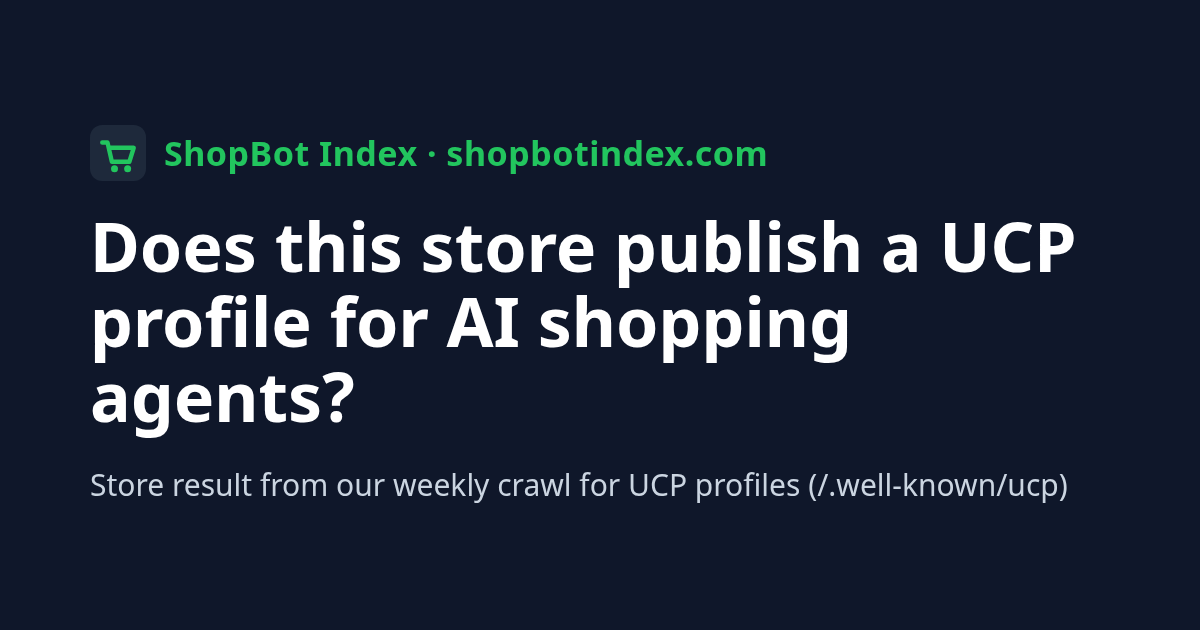
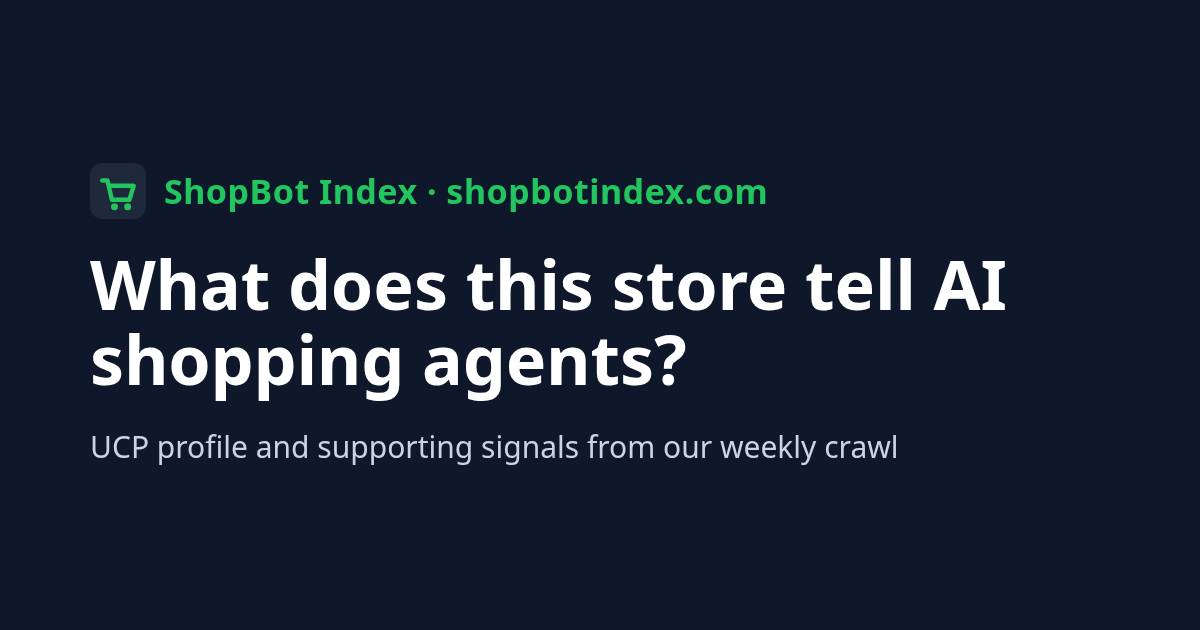
Messaging stage 2 (ship after the 26 Oct crawl): headline 'What online stores tell AI shopping agents', home title/meta/intro, footer tagline, segment card wording, store titles and signal row names, check/badge/about copy, OG images re-rendered. dist rebuilt at merge

Changed region(s): [[0.0617, 0.2111, 0.8942, 0.8143]]

diff --git a/assets/og.html b/assets/og.html
@@ -7,6 +7,6 @@ p{font-size:30px;color:#cbd5e1;margin:0}
 .bar i{display:block}
 </style></head><body>
 <div class="b"><svg width="56" height="56" viewBox="0 0 64 64"><rect width="64" height="64" rx="14" fill="#1e293b"/><path d="M14 20h6l5 22h20l5-16H23" fill="none" stroke="#22c55e" stroke-width="5" stroke-linecap="round" stroke-linejoin="round"/><circle cx="28" cy="50" r="4" fill="#22c55e"/><circle cx="43" cy="50" r="4" fill="#22c55e"/></svg>ShopBot Index · shopbotindex.com</div>
-<h1>Which online stores publish a UCP profile for AI shopping agents?</h1>
-<p>Weekly public crawl · Shopify stores · big retailers · other online stores</p>
+<h1>What online stores tell AI shopping agents</h1>
+<p>Weekly crawl · UCP profiles + agent tools, AI rules, product data · Shopify, big retailers, other stores</p>
 </body></html>

diff --git a/assets/og-store.html b/assets/og-store.html
@@ -7,6 +7,6 @@ p{font-size:30px;color:#cbd5e1;margin:0}
 .bar i{display:block}
 </style></head><body>
 <div class="b"><svg width="56" height="56" viewBox="0 0 64 64"><rect width="64" height="64" rx="14" fill="#1e293b"/><path d="M14 20h6l5 22h20l5-16H23" fill="none" stroke="#22c55e" stroke-width="5" stroke-linecap="round" stroke-linejoin="round"/><circle cx="28" cy="50" r="4" fill="#22c55e"/><circle cx="43" cy="50" r="4" fill="#22c55e"/></svg>ShopBot Index · shopbotindex.com</div>
-<h1>Does this store publish a UCP profile for AI shopping agents?</h1>
-<p>Store result from our weekly crawl for UCP profiles (/.well-known/ucp)</p>
+<h1>What does this store tell AI shopping agents?</h1>
+<p>UCP profile and supporting signals from our weekly crawl</p>
 </body></html>

diff --git a/scripts/build.py b/scripts/build.py
@@ -7,7 +7,7 @@ NAME='ShopBot Index'
 CONTACT='hello@shopbotindex.com'
 MAILTO=f'<a href="mailto:{CONTACT}">{CONTACT}</a>'
 FORM_ACTION='https://uufmlmwgvoqhhtqgrclu.supabase.co/functions/v1/sbi-subscribe'
-DEFDESC='Which online stores publish a Universal Commerce Protocol (UCP) profile, the official machine-readable profile AI shopping agents read? A weekly public crawl of Shopify stores, big retailers and other online stores.'
+DEFDESC='What online stores tell AI shopping agents: a weekly public crawl of Shopify stores, big retailers and other online stores for UCP profiles, the official machine-readable profile AI shopping agents read, plus agent tools, AI rules in robots.txt, AI guidance files and product data.'
 E=lambda s: html.escape(str(s if s is not None else ''))
 D=json.load(open(os.path.join(DATA,'latest.json'))); CH=json.load(open(os.path.join(DATA,'channels.json')))
 RET=D['retailers']; SITES=D['sites']; DAY=D['crawl_date']
@@ -48,7 +48,7 @@ def page(path,title,body,desc='',ogimg='og.png',ogtype='website',head=''):
 <meta name='impact-site-verification' value='b2e40b89-8d32-4fba-b983-f02842d65c9f'>
 <meta name='impact-site-verification' value='644adb49-a10b-4e51-b34b-6674b6917c9f'>
 <link rel="stylesheet" href="{pre}style.css"></head><body><header><div class="w"><a class="brand" href="{pre}index.html">{NAME}</a>{nav}</div></header>
-<main><div class="w">{body}</div></main><footer><div class="w">{NAME} · Crawl of {DAY} · <a href="{pre}methodology.html">How we measure</a> · <a href="{pre}privacy.html">Privacy</a> · <a href="{pre}about.html">About</a> · <a href="https://x.com/ShopBotIndex" rel="me noopener">Follow on X</a> · Contact: {MAILTO} · Independent; not affiliated with Google, Shopify, OpenAI, Microsoft or any retailer listed.</div></footer></body></html>'''
+<main><div class="w">{body}</div></main><footer><div class="w">{NAME}: the weekly index of what online stores tell AI shopping agents · Crawl of {DAY} · <a href="{pre}methodology.html">How we measure</a> · <a href="{pre}privacy.html">Privacy</a> · <a href="{pre}about.html">About</a> · <a href="https://x.com/ShopBotIndex" rel="me noopener">Follow on X</a> · Contact: {MAILTO} · Independent; not affiliated with Google, Shopify, OpenAI, Microsoft or any retailer listed.</div></footer></body></html>'''
     fp=os.path.join(DIST,path); os.makedirs(os.path.dirname(fp),exist_ok=True); open(fp,'w').write(full); PAGES.append(path)
 def bars(counter,total,namef=lambda x:x,link=None,label='Stores'):
     rows=''.join(f'<tr><td>{(f"<a href=\"{link(k)}\">{E(namef(k))}</a>") if link else E(namef(k))}</td><td>{v}</td><td>{pct(v,total)}</td><td class="hide-sm" style="width:35%"><div class="bar"><i style="width:{100*v/max(total,1):.1f}%"></i></div></td></tr>' for k,v in counter.most_common())
@@ -57,9 +57,9 @@ def segcards(pre=''):
     out=''
     for k in ('shopify','big','other'):
         s=segstats([r for r in RET if r['segment']==k])
-        out+=f'''<a class="seg" href="{pre}segments/{k}.html"><h3>{SEG[k]}</h3><b>{s["ucp"]}</b> <span>of {s["checked"]} we could check publish UCP ({s["rate"]})</span>
+        out+=f'''<a class="seg" href="{pre}segments/{k}.html"><h3>{SEG[k]}</h3><b>{s["ucp"]}</b> <span>of {s["checked"]} we could check publish a UCP profile ({s["rate"]})</span>
 <div class="sbar"><i class="y" style="width:{100*s["ucp"]/max(s["n"],1):.1f}%"></i><i class="n" style="width:{100*s["no"]/max(s["n"],1):.1f}%"></i><i class="c" style="width:{100*s["cc"]/max(s["n"],1):.1f}%"></i></div>
-<small>{s["n"]} tracked · {s["no"]} no profile found · <span class="cc">{s["cc"]} couldn't check</span></small></a>'''
+<small>{s["n"]} tracked · {s["no"]} no UCP profile found · <span class="cc">{s["cc"]} couldn't check</span></small></a>'''
     return f'<div class="segs">{out}</div><p class="legend"><i class="y"></i> UCP profile <i class="n"></i> no profile found <i class="c"></i> couldn\'t check (blocked or unreachable; not counted in the rate)</p>'
 HONEYPOT='<input type="text" name="website" tabindex="-1" autocomplete="off" aria-hidden="true" style="position:absolute;left:-9999px;width:1px;height:1px;opacity:0">'
 SIGNUP_JS="""<script>if(!window.sbiSub){window.sbiSub=function(f){const m=f.parentNode.querySelector('.nl-msg'),b=f.querySelector('button');b.disabled=true;m.textContent='Subscribing…';fetch(f.action,{method:'POST',headers:{'Content-Type':'application/json'},body:JSON.stringify(Object.fromEntries(new FormData(f)))}).then(r=>r.json().then(j=>[r.status,j])).then(([s,j])=>{if(j.ok){m.textContent="Thanks! You're on the list.";f.reset();}else{m.textContent=(j.error==='invalid_email'?'Please enter a valid email address.':(s===429?'Too many attempts. Please try again later.':'Something went wrong. Please try again.'));}}).catch(()=>{m.textContent='Network error. Please try again.'}).finally(()=>{b.disabled=false});return false;}}</script>"""
@@ -127,7 +127,7 @@ if(badge){h+=st=='ucp'?'<div style="margin-top:.8rem"><img src="'+root+'badge/'+
 out.innerHTML=h};
 if(window.sbiLook)go(window.sbiLook);else fetch(root+'stores.json').then(r=>r.json()).then(L=>{window.sbiLook=L;go(L)}).catch(()=>{out.textContent='Could not load the store list. Please try again.'});return false;}}</script>'''
 def checkbox(pre='',badge=False,title='Check your store'):
-    return f'''<div class="box ck"><b>{title}</b> Does your store publish a UCP profile, the official machine-readable profile AI shopping agents read? Look it up in our latest crawl ({DAY}).
+    return f'''<div class="box ck"><b>{title}</b> Does your store publish a UCP profile, and what else does it tell AI shopping agents? Look it up in our latest crawl ({DAY}).
 <form class="ckf" data-root="{pre}"{' data-badge' if badge else ''} onsubmit="return sbiCheck(this)" style="margin-top:.6rem;display:flex;flex-wrap:wrap;gap:.5rem"><input type="text" name="d" placeholder="yourstore.com" required maxlength="253" aria-label="Store domain" autocapitalize="off" spellcheck="false" style="padding:.5rem;border:1px solid #cdd5dd;border-radius:6px;min-width:220px;flex:1"> <button type="submit" style="padding:.5rem 1rem;border:0;border-radius:6px;background:#0f1f2e;color:#fff;font-weight:600">Check</button></form>
 <div class="ck-out" aria-live="polite" style="margin-top:.6rem"></div>{CHECK_JS}</div>'''
 def badge_svg(ok):
@@ -141,8 +141,8 @@ def snippet(r):
 # ---- home ----
 nsites=len(SITES); nsites_u=sum(1 for s in SITES if s.get('status')=='ucp')
 joined_txt=(f'<p><b>This week:</b> {len(CHG["joined"])} joined, {len(CHG["left"])} left since {CHG["previous"]}. <a href="changes.html">See who →</a></p>' if CHG else '<p class="muted">Weekly "who joined" starts with the second crawl.</p>')
-home=f'''<h1>Which online stores publish a UCP profile for AI shopping agents?</h1>
-<p class="lede">We check {len(RET)} retailers and stores ({nsites} websites) for a published <a href="https://ucp.dev/">Universal Commerce Protocol</a> (UCP) profile, the official machine-readable profile AI shopping agents read. No UCP profile found doesn't mean AI agents can't shop there. Every figure comes from our own crawl on {DAY}. <a href="methodology.html#meaning">What this does and doesn't mean</a>.</p>
+home=f'''<h1>What online stores tell AI shopping agents</h1>
+<p class="lede">Every week we check {len(RET)} retailers and stores ({nsites} websites) for a <a href="https://ucp.dev/">Universal Commerce Protocol</a> (UCP) profile, the official machine-readable profile AI shopping agents read, and for four supporting signals: agent tools, AI rules in robots.txt, AI guidance files and product data. No UCP profile doesn't mean AI agents can't shop there. Every figure comes from our own crawl on {DAY}. <a href="methodology.html#meaning">What this does and doesn't mean</a>.</p>
 {segcards()}{joined_txt}
 {checkbox()}
 <div class="stats"><div class="stat"><b>{len(U)}</b><span>retailers/stores with a UCP profile on at least one site</span></div>
@@ -157,7 +157,7 @@ home=f'''<h1>Which online stores publish a UCP profile for AI shopping agents?</
 <h2>Which AI assistants name which retailers</h2><p>From official announcements and help pages only. <a href="assistants.html">Details →</a></p>
 <div class="tw nomax"><table><tr><th>Assistant</th><th>Retailers named</th><th>Source</th></tr>{"".join(f'<tr><td><b>{E(c["assistant"])}</b></td><td>{", ".join(E(x) for x in c["retailers_named"])}</td><td><a href="{E(c["source_url"])}" rel="noopener">{E(c["source_title"].split(" (")[-1].rstrip(")"))}</a>, {E(c["date"])}</td></tr>' for c in CH["channels"])}</table></div>
 {signup()}{aff()}'''
-page('index.html',f'{NAME}: which online stores publish a UCP profile for AI shopping agents',home,DEFDESC)
+page('index.html',f'What online stores tell AI shopping agents: weekly UCP index · {NAME}',home,DEFDESC)
 # ---- stores table ----
 rows=[]
 for r in sorted(RET,key=lambda r:(r['status']!='ucp',r['name'].lower())):
@@ -238,16 +238,16 @@ def readiness(r):
     elif st=='no_ucp': ucpt=(('no','Not found'),'No UCP profile found at <code>/.well-known/ucp</code>.')
     else: ucpt=(('warn',"Couldn't check"),"Couldn't check: our request for the profile was refused or failed.")
     extra=(' Also publishes an Agentic Commerce Protocol (ACP) discovery document at <code>/.well-known/acp.json</code>.' if sg.get('acp') else '')+(' Also publishes an AI catalog at <code>/.well-known/ai-catalog.json</code>.' if sg.get('ai_catalog') else '')
-    rows.append(('Agent checkout profile (UCP)',ucpt[0],ucpt[1]+extra))
+    rows.append(('UCP profile',ucpt[0],ucpt[1]+extra))
     m=sg.get('mcp',{}); ms=m.get('state','not_checked'); tl=m.get('tools',[])
     if ms=='answered': mrow=(('yes','Answered'),f'The MCP endpoint named in its UCP profile answered our read-only tools list request with {len(tl)} tool{"s" if len(tl)!=1 else ""}: '+', '.join(f'<code>{E(t)}</code>' for t in tl)+'. We never call the tools.')
     elif ms=='no_tools': mrow=(('no','No tools list'),"Its UCP profile names an MCP endpoint, but it didn't return a tools list to our request.")
     elif st=='ucp' and ms=='none_declared': mrow=(('no','None declared'),'Its UCP profile declares no MCP endpoint.')
     elif st=='no_ucp': mrow=(('no','None found'),'No UCP profile, so no MCP endpoint to check. We only look for one in a UCP profile.')
     else: mrow=(('warn','Not checked'),'Not checked this week.')
-    rows.append(('Agent tools (MCP endpoint)',)+mrow)
+    rows.append(('Agent tools (MCP)',)+mrow)
     rb=sg.get('robots',{})
-    if not rb.get('present'): rows.append(('AI-agent rules in robots.txt',('warn','Not checked'),"We couldn't read a robots.txt for this site."))
+    if not rb.get('present'): rows.append(('AI rules (robots.txt)',('warn','Not checked'),"We couldn't read a robots.txt for this site."))
     else:
         sp=rb.get('specific',{})
         if sp:
@@ -260,10 +260,10 @@ def readiness(r):
         if rb.get('wildcard') in ('blocked','mostly_blocked'): txt+=' Its general rule (<code>User-agent: *</code>) '+RSTATE[rb['wildcard']].replace(' it',' them')+' for all crawlers.'
         if rb.get('content_signal'): txt+=' Content signals: '+'; '.join(f'<code>{E(c)}</code>' for c in rb['content_signal'])+'.'
         txt+=" <small class=\"muted\">robots.txt states the site's wishes. OpenAI, Perplexity and Google say agents acting on a user's request may not follow it; Anthropic says Claude-User does.</small>"
-        rows.append(('AI-agent rules in robots.txt',state,txt))
+        rows.append(('AI rules (robots.txt)',state,txt))
     g=[x for x,k in (('<code>/llms.txt</code>','llms_txt'),('<code>/agents.md</code>','agents_md')) if sg.get(k)]
     gs=sg.get('guide_state','found' if g else 'not_found')
-    rows.append(('Guidance for AI assistants',('yes','Found') if g else ('no','Not found') if gs=='not_found' else ('warn','Not checked'),('Publishes '+' and '.join(g)+'.') if g else 'No <code>/llms.txt</code> or <code>/agents.md</code> found.' if gs=='not_found' else "Not checked: our requests for these files were refused or failed."))
+    rows.append(('AI guidance files',('yes','Found') if g else ('no','Not found') if gs=='not_found' else ('warn','Not checked'),('Publishes '+' and '.join(g)+'.') if g else 'No <code>/llms.txt</code> or <code>/agents.md</code> found.' if gs=='not_found' else "Not checked: our requests for these files were refused or failed."))
     pr=sg.get('product',{}); ps=pr.get('state','not_checked')
     pt={'full':'A product page we checked has schema.org Product markup with price, currency and availability.','partial':'A product page we checked has schema.org Product markup, but not all of price, currency and availability.',
         'none':'We found no schema.org Product markup on the page we checked.'}.get(ps,"Not checked: we couldn't reach a product page.")
@@ -291,7 +291,7 @@ for r in RET:
           +('<h3>Payment handlers</h3><ul>'+''.join(f'<li>{E(phn(x))} <small><code>{E(x)}</code></small></li>' for x in r['payment_handlers'])+'</ul>' if r['payment_handlers'] else '')
           +(f'<p>Platform: {E(" / ".join(r["platforms"]))}</p>' if r['platforms'] else '')) if st=='ucp' else ''
     meaning={'ucp':'AI shopping agents that use the Universal Commerce Protocol can read this store\'s profile to see what it supports'+(', including checkout' if 'dev.ucp.shopping.checkout' in r['capabilities'] else '')+'. It doesn\'t guarantee that a given assistant buys from it; that depends on the assistant.',
-             'no_ucp':'At least one of its websites answered our request, but none published a UCP profile. That only means we found no UCP profile. AI agents may still be able to shop here, for example through a normal web browser, or through channels we can\'t see from outside, such as product feeds shared privately with AI assistants.',
+             'no_ucp':'At least one of its websites answered our request, but none published a UCP profile. AI agents may still be able to shop here, for example through a normal web browser, or through channels we can\'t see from outside, such as product feeds shared privately with AI assistants. The supporting signals below show what else the store tells AI agents.',
              'couldnt_check':'Every website we tried refused our request, timed out or disallowed it in robots.txt. We never try to get around that, so we don\'t know whether it publishes a profile. It is excluded from adoption rates.'}[st]
     badge=(f'<h2>Badge for this store</h2><p>{E(r["name"])} can show that it publishes a UCP profile. Paste this HTML on the site; it links back to this page.</p><p><img src="../badge/{u}.svg" alt="UCP profile found · ShopBot Index" height="20"></p><textarea readonly rows="3" style="width:100%;font-family:monospace;font-size:.85rem" onclick="this.select()">{E(snippet(r))}</textarea><p class="muted"><a href="../badge.html">About the badge</a>. If a later crawl stops finding the profile, the badge turns into a neutral grey "view listing" link.</p>') if st=='ucp' else ''
     jsonld=json.dumps({"@context":"https://schema.org","@type":"BreadcrumbList","itemListElement":[{"@type":"ListItem","position":1,"name":NAME,"item":SITE+"/"},{"@type":"ListItem","position":2,"name":"All stores","item":SITE+"/stores.html"},{"@type":"ListItem","position":3,"name":r['name'],"item":f"{SITE}/store/{u}.html"}]},ensure_ascii=False).replace('</','<\\/')
@@ -306,11 +306,11 @@ for r in RET:
 {badge}
 <p>Run this store and think the result is wrong, or want it removed? Email {MAILTO} with the domain; we re-check it in the next weekly crawl and never change a result by hand. <a href="../methodology.html">How we measure</a>.</p>
 {checkbox("../",title="Check another store")}{signup("../")}'''
-    page(f'store/{u}.html',f'{r["name"]}: UCP profile for AI shopping agents? | {NAME}',body,store_desc(r),ogimg='og-store.png',ogtype='article',head=f'<script type="application/ld+json">{jsonld}</script>')
+    page(f'store/{u}.html',f'{r["name"]}: UCP profile and AI-agent signals | {NAME}',body,store_desc(r),ogimg='og-store.png',ogtype='article',head=f'<script type="application/ld+json">{jsonld}</script>')
 # ---- check + badge pages, lookup JSON, badge SVGs ----
-page('check.html',f'Check your store: does it publish a UCP profile? | {NAME}',f'''<h1>Check your store</h1><p class="lede">Type a store's domain to see whether our latest weekly crawl ({DAY}) found a Universal Commerce Protocol (UCP) profile, the official machine-readable profile AI shopping agents read. We track {len(RET)} retailers and stores. No UCP profile found doesn't mean AI agents can't shop there (<a href="methodology.html#meaning">details</a>).</p>
-{checkbox(title="Look up a store")}<h2>How it works</h2><ul><li>This looks the domain up in our published results. It doesn't fetch anything from your store live.</li><li>Results are updated every Monday after the weekly crawl.</li><li>Not in the index? Use the link in the result to ask us to add it.</li><li>Have a UCP profile? Get a <a href="badge.html">badge for your site</a>.</li></ul>{signup()}''',f'Look up any store in ShopBot Index: does it publish a UCP profile, the official machine-readable profile AI shopping agents read? Results from our weekly crawl of {len(RET)} retailers and stores.')
-page('badge.html',f'"UCP profile found" badge for your store | {NAME}',f'''<h1>A "UCP profile found" badge for your store</h1><p class="lede">Stores where our latest crawl found a UCP profile can show it with a small badge that links to their ShopBot Index page.</p>
+page('check.html',f'Check your store: what does it tell AI shopping agents? | {NAME}',f'''<h1>Check your store</h1><p class="lede">Type a store's domain to see whether our latest weekly crawl ({DAY}) found a Universal Commerce Protocol (UCP) profile, the official machine-readable profile AI shopping agents read. We track {len(RET)} retailers and stores. No UCP profile found doesn't mean AI agents can't shop there (<a href="methodology.html#meaning">details</a>). Each store's page also lists its supporting signals: agent tools, AI rules in robots.txt, AI guidance files and product data.</p>
+{checkbox(title="Look up a store")}<h2>How it works</h2><ul><li>This looks the domain up in our published results. It doesn't fetch anything from your store live.</li><li>Results are updated every Monday after the weekly crawl.</li><li>Not in the index? Use the link in the result to ask us to add it.</li><li>Have a UCP profile? Get a <a href="badge.html">badge for your site</a>.</li></ul>{signup()}''',f'Look up any store in ShopBot Index: what does it tell AI shopping agents? Its UCP profile and supporting signals from our weekly crawl of {len(RET)} retailers and stores.')
+page('badge.html',f'"UCP profile found" badge for your store | {NAME}',f'''<h1>A "UCP profile found" badge for your store</h1><p class="lede">Stores where our latest crawl found a UCP profile can show it with a small badge that links to their ShopBot Index page. The badge covers the UCP profile only. Supporting signals are listed on each store's page and don't affect the badge.</p>
 <p><img src="badge/{SLUG[U[0]["id"]] if U else ""}.svg" alt="UCP profile found · ShopBot Index" height="20"> <small class="muted">(example)</small></p>
 {checkbox(badge=True,title="Get your badge")}<h2>Rules</h2><ul><li>The badge is only offered for stores where our latest crawl found a profile at <code>/.well-known/ucp</code>.</li><li>Each badge is served from shopbotindex.com and is regenerated every week. If a later crawl no longer finds the profile, it turns into a neutral grey "ShopBot Index · view listing" badge.</li><li>No tracking: the badge is a plain SVG image, with no scripts or cookies.</li></ul>{signup()}''','Stores that publish a UCP profile can embed a free "UCP profile found · ShopBot Index" badge linking to their result page.')
 json.dump(LOOK,open(os.path.join(DIST,'stores.json'),'w'),ensure_ascii=False,separators=(',',':'))
@@ -323,10 +323,10 @@ CRAWL_UA=_cm.UA
 UA_NOTE='' if D.get('user_agent')==CRAWL_UA else f' <small class="muted">(The crawl of {DAY} still used the earlier User-Agent <code>{E(D.get("user_agent",""))}</code>, which read only <code>/robots.txt</code> and <code>/.well-known/ucp</code>.)</small>'
 SIGMETH=f'''<h2 id="signals">1b. Supporting signals (beyond UCP)</h2><p>UCP stays our headline measure and trend. Since October 2026 we also record other public signals of how a store presents itself to AI agents. Each store page lists them separately; we don't combine them into a score.</p>
 <div class="tw nomax"><table><tr><th>Signal</th><th>How we check</th><th>What it means</th><th>What it doesn't mean</th></tr>
-<tr><td><b>Agent checkout profile (UCP)</b></td><td><code>/.well-known/ucp</code> (see section 1)</td><td>The store publishes the official machine-readable profile and lists what it supports.</td><td>That any particular assistant buys from it.</td></tr>
-<tr><td><b>Agent tools (MCP endpoint)</b></td><td>If the UCP profile names an MCP endpoint, we send one read-only JSON-RPC <code>tools/list</code> request, identifying ourselves with our <a href="ucp/agent-profile.json">agent profile</a>. We never call a tool.</td><td>The endpoint is live and lists tools (for example catalog search, cart, checkout) right now.</td><td>That a purchase completes without the buyer; checkouts may hand the buyer back to the store's own checkout page.</td></tr>
-<tr><td><b>AI-agent rules in robots.txt</b></td><td>Groups in <code>/robots.txt</code> that name <code>ChatGPT-User</code>, <code>Claude-User</code>, <code>Perplexity-User</code>, <code>Google-Agent</code>, <code>OAI-SearchBot</code>, <code>Claude-SearchBot</code>, <code>PerplexityBot</code>, <code>GPTBot</code>, <code>ClaudeBot</code> or <code>Google-Extended</code>, plus <code>Content-Signal</code> lines. Tokens from <a href="https://developers.openai.com/api/docs/bots">OpenAI</a>, <a href="https://support.claude.com/en/articles/8896518-does-anthropic-crawl-data-from-the-web-and-how-can-site-owners-block-the-crawler">Anthropic</a>, <a href="https://docs.perplexity.ai/docs/resources/perplexity-crawlers">Perplexity</a> and <a href="https://developers.google.com/crawling/docs/crawlers-fetchers/google-user-triggered-fetchers">Google</a>.</td><td>The site's stated wishes for each kind of AI agent: user-requested, search or training.</td><td>A technical block or permission. OpenAI, Perplexity and Google say their user-requested agents may not follow robots.txt; Anthropic says its bots do.</td></tr>
-<tr><td><b>Guidance for AI assistants</b></td><td><code>/llms.txt</code> and <code>/agents.md</code> (Markdown files, not web pages)</td><td>The site publishes instructions for AI assistants. On Shopify these are generated by the platform.</td><td>That assistants read them; <a href="https://llmstxt.org/">llms.txt</a> is a community proposal, not a formal standard.</td></tr>
+<tr><td><b>UCP profile</b></td><td><code>/.well-known/ucp</code> (see section 1)</td><td>The store publishes the official machine-readable profile and lists what it supports.</td><td>That any particular assistant buys from it.</td></tr>
+<tr><td><b>Agent tools (MCP)</b></td><td>If the UCP profile names an MCP endpoint, we send one read-only JSON-RPC <code>tools/list</code> request, identifying ourselves with our <a href="ucp/agent-profile.json">agent profile</a>. We never call a tool.</td><td>The endpoint is live and lists tools (for example catalog search, cart, checkout) right now.</td><td>That a purchase completes without the buyer; checkouts may hand the buyer back to the store's own checkout page.</td></tr>
+<tr><td><b>AI rules (robots.txt)</b></td><td>Groups in <code>/robots.txt</code> that name <code>ChatGPT-User</code>, <code>Claude-User</code>, <code>Perplexity-User</code>, <code>Google-Agent</code>, <code>OAI-SearchBot</code>, <code>Claude-SearchBot</code>, <code>PerplexityBot</code>, <code>GPTBot</code>, <code>ClaudeBot</code> or <code>Google-Extended</code>, plus <code>Content-Signal</code> lines. Tokens from <a href="https://developers.openai.com/api/docs/bots">OpenAI</a>, <a href="https://support.claude.com/en/articles/8896518-does-anthropic-crawl-data-from-the-web-and-how-can-site-owners-block-the-crawler">Anthropic</a>, <a href="https://docs.perplexity.ai/docs/resources/perplexity-crawlers">Perplexity</a> and <a href="https://developers.google.com/crawling/docs/crawlers-fetchers/google-user-triggered-fetchers">Google</a>.</td><td>The site's stated wishes for each kind of AI agent: user-requested, search or training.</td><td>A technical block or permission. OpenAI, Perplexity and Google say their user-requested agents may not follow robots.txt; Anthropic says its bots do.</td></tr>
+<tr><td><b>AI guidance files</b></td><td><code>/llms.txt</code> and <code>/agents.md</code> (Markdown files, not web pages)</td><td>The site publishes instructions for AI assistants. On Shopify these are generated by the platform.</td><td>That assistants read them; <a href="https://llmstxt.org/">llms.txt</a> is a community proposal, not a formal standard.</td></tr>
 <tr><td><b>Product data</b></td><td>One page that looks like a product page, found via a link on the home page or, failing that, at most two sitemap files. We look for <a href="https://schema.org/Product">schema.org Product</a> markup with an Offer that has price, currency and availability.</td><td>Product facts are machine-readable on the page.</td><td>Anything about checkout. "Not checked" means we couldn't reach a product page, often because of bot protection or pages built by scripts.</td></tr></table></div>
 <p>We also record, without a public column until a store first publishes one, two newer discovery files: the <a href="https://github.com/agentic-commerce-protocol/agentic-commerce-protocol">Agentic Commerce Protocol</a> discovery document at <code>/.well-known/acp.json</code> and the MCP <a href="https://modelcontextprotocol.io/seps/2127-mcp-server-cards">AI catalog</a> at <code>/.well-known/ai-catalog.json</code>.</p>
 <p>When a site's bot protection refuses our identified crawler, its store page says so in a neutral note. That only describes how the site treated our crawler, not whether shoppers or AI agents can use it.</p>
@@ -358,7 +358,7 @@ meth=f'''<h1>Methodology</h1><p class="lede">Exactly what we check, how we check
 <h2>9. AI assistants table</h2><p>Only official company announcements and help-centre pages, linked per row. We don't test those integrations.</p>
 <h2 id="contact">10. Add, remove or correct a store</h2><p>Run a store or retailer that should be added, removed or corrected, or think a result is wrong? Email {MAILTO} with the store's domain. We re-check it in the next weekly crawl and never change a result by hand.</p>'''
 page('methodology.html',f'Methodology | {NAME}',meth)
-page('about.html',f'About | {NAME}','''<h1>About</h1><p class="lede">ShopBot Index tracks, week by week, which online stores publish a Universal Commerce Protocol (UCP) profile, the official machine-readable profile AI shopping agents read, across Shopify stores, big retailers and other online stores.</p>
+page('about.html',f'About | {NAME}','''<h1>About</h1><p class="lede">ShopBot Index is the weekly index of what online stores tell AI shopping agents. Our headline measure is whether a store publishes a Universal Commerce Protocol (UCP) profile, the official machine-readable profile AI shopping agents read. Alongside it we record four supporting signals: agent tools, AI rules in robots.txt, AI guidance files and product data. We cover Shopify stores, big retailers and other online stores.</p>
 <p>It is run by Gus, an experienced enterprise software consultant, as an independent project. It is not affiliated with Google, Shopify, OpenAI, Microsoft, Perplexity, PayPal or any retailer listed.</p>
 <p>All figures come from our own public crawl or from linked official sources. Shopify trial links on this site (like the <a href="'''+E(AFF_URL)+'''" rel="sponsored noopener" target="_blank">Shopify free trial</a>) are affiliate links: '''+E(AFF_DISC)+''' That never changes a store's result.</p><p>Contact: <a href="mailto:hello@shopbotindex.com">hello@shopbotindex.com</a> (including stores that want to be added, removed or corrected; see the <a href="methodology.html#contact">methodology</a>).</p>'''+signup())
 page('privacy.html',f'Privacy | {NAME}','''<h1>Privacy</h1><p class="lede">Short version: we only store what's needed to send you the weekly email.</p>
